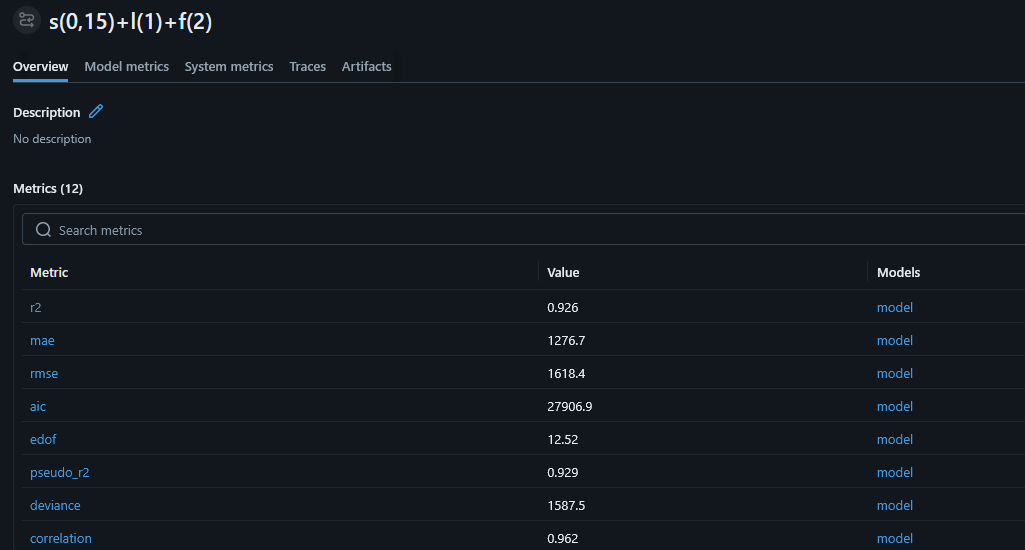
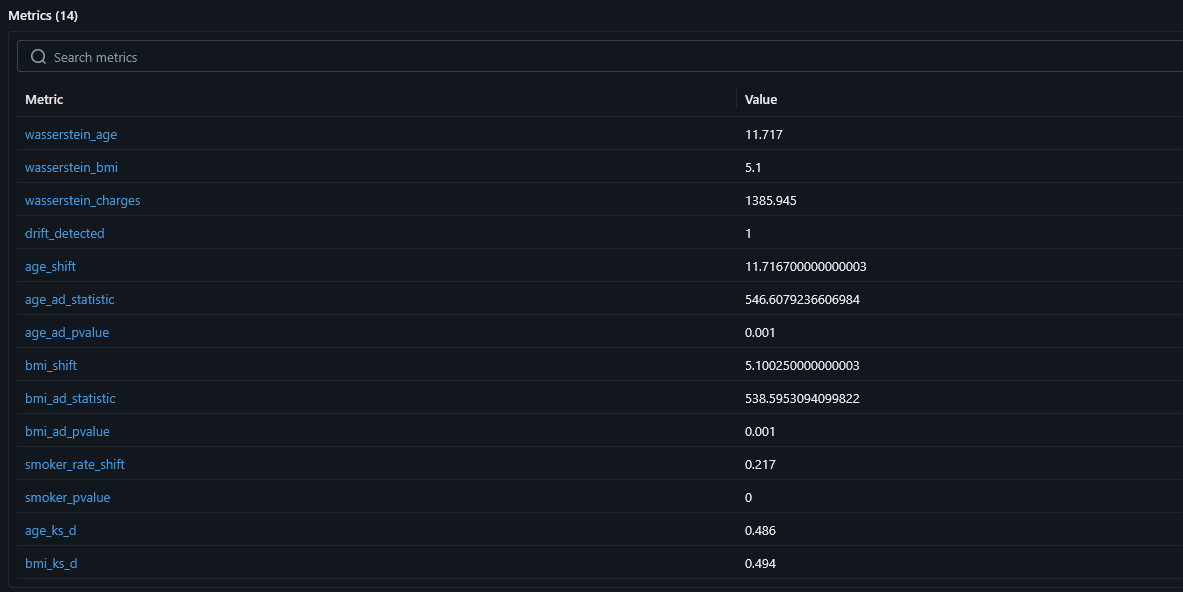
docs: update drift attribution, add AD/Wasserstein comparisons

diff --git a/docs/comparisons/all_scenarios.py b/docs/comparisons/all_scenarios.py
@@ -1,0 +1,77 @@
+import numpy as np
+from scipy.stats import wasserstein_distance
+from scipy.spatial.distance import jensenshannon
+
+def W(pos, p, q):      return wasserstein_distance(pos, pos, p, q)
+def JSD_nats(p, q):    return jensenshannon(np.array(p,float), np.array(q,float), base=np.e)**2
+def JSD_bits(p, q):    return jensenshannon(np.array(p,float), np.array(q,float), base=2)**2
+def PSI(p, q, eps=1e-9):
+    p=np.clip(np.array(p,float),eps,None); q=np.clip(np.array(q,float),eps,None)
+    return np.sum((p-q)*np.log(p/q))
+def close(a, b, tol=5e-3): return abs(a-b) < tol
+
+checks = []
+def verify(label, got, expected):
+    ok = close(got, expected)
+    checks.append(ok)
+    print(f"  [{'PASS' if ok else 'FAIL'}] {label:42s} got={got:.4f}  doc={expected:.4f}")
+
+# ---------- Example 1: continuous (scores 1-5) ----------
+print("Example 1 — continuous (quiz scores 1..5)")
+pos = np.array([1,2,3,4,5], float)
+P = np.array([0.4,0.3,0.2,0.1,0.0]); Q = np.array([0.0,0.1,0.2,0.3,0.4])
+verify("W1 = 2.0 grades",              W(pos,P,Q),            2.0)
+verify("mean P = 2.0",                 np.sum(pos*P),         2.0)
+verify("mean Q = 4.0",                 np.sum(pos*Q),         4.0)
+M = 0.5*(P+Q)
+verify("M is uniform 0.2",             M.mean(),              0.2)
+assert np.allclose(M, 0.2), "M not uniform!"
+kl = lambda a,b: np.sum(a[a>0]*np.log(a[a>0]/b[a>0]))
+verify("KL(P||M) = 0.330",             kl(P,M),               0.330)
+verify("KL(Q||M) = 0.330",             kl(Q,M),               0.330)
+verify("JSD = 0.330 nats",             JSD_nats(P,Q),         0.330)
+verify("JSD = 0.475 bits",             JSD_bits(P,Q),         0.475)
+
+# ---------- Example 1b: latency (spacing 10) + standardization ----------
+print("Example 1b — latency (ms, spacing 10) + standardization")
+ms = np.array([10,20,30,40,50], float)
+verify("W1 = 20 ms",                   W(ms,P,Q),             20.0)
+mean_ref = np.sum(ms*P); sd_ref = np.sqrt(np.sum(ms**2*P)-mean_ref**2)
+verify("mean_ref = 20 ms",             mean_ref,              20.0)
+verify("sd_ref = 10 ms",               sd_ref,                10.0)
+verify("W1 / sd_ref = 2.0 SDs",        W(ms,P,Q)/sd_ref,      2.0)
+verify("W1 / mean_ref = 1.0",          W(ms,P,Q)/mean_ref,    1.0)
+sec = ms/1000.0
+sd_sec = np.sqrt(np.sum(sec**2*P)-(np.sum(sec*P))**2)
+verify("seconds W1 = 0.02 s",          W(sec,P,Q),            0.02)
+verify("seconds W1/sd = 2.0 (invariant)", W(sec,P,Q)/sd_sec,  2.0)
+verify("JSD ms  = 0.330 nats",         JSD_nats(P,Q),         0.330)  # spacing-blind
+
+# ---------- Example 2: binary (churn) ----------
+print("Example 2 — binary (churn)")
+b = np.array([0,1], float)
+Pb = np.array([0.8,0.2]); Qb = np.array([0.5,0.5])
+verify("W1 = 0.3 (= |dp|)",            W(b,Pb,Qb),            0.3)
+verify("|dp| = 0.3",                   abs(0.5-0.2),          0.3)
+Mb = 0.5*(Pb+Qb)
+verify("M = [0.65,0.35] (first)",      Mb[0],                 0.65)
+verify("JSD = 0.051 nats",             JSD_nats(Pb,Qb),       0.051)
+verify("JSD = 0.073 bits",             JSD_bits(Pb,Qb),       0.073)
+verify("PSI = 0.416",                  PSI(Pb,Qb),            0.416)
+
+# ---------- Example 3: ordinal (satisfaction) ----------
+print("Example 3 — ordinal (satisfaction 1..5)")
+o = np.array([1,2,3,4,5], float)
+Po = np.array([0,0,1,0,0.]); Qa = np.array([0,0,0,1,0.]); Qb2 = np.array([0,0,0,0,1.])
+verify("W1(P,Qa) = 1",                 W(o,Po,Qa),            1.0)
+verify("W1(P,Qb) = 2",                 W(o,Po,Qb2),           2.0)
+verify("JSD(P,Qa) = 1 bit",            JSD_bits(Po,Qa),       1.0)
+verify("JSD(P,Qb) = 1 bit",            JSD_bits(Po,Qb2),      1.0)
+verify("JSD(P,Qa) = ln2 nats",         JSD_nats(Po,Qa),       np.log(2))
+verify("PSI(P,Qa) = PSI(P,Qb) (equal)", PSI(Po,Qa)-PSI(Po,Qb2), 0.0)
+assert close(JSD_bits(Po,Qa), JSD_bits(Po,Qb2)), "JSD should be equal"
+assert not close(W(o,Po,Qa), W(o,Po,Qb2)), "Wasserstein should differ"
+print("  [PASS] punchline: JSD equal for A & B, Wasserstein differs (1 vs 2)")
+
+print(f"\n{sum(checks)}/{len(checks)} numeric checks passed; all assertions held."
+      if all(checks) else "SOME CHECKS FAILED")

diff --git a/README.md b/README.md
@@ -11,7 +11,7 @@
 [![CI](https://github.com/fisherynwa/mlops-cycle/actions/workflows/ci.yml/badge.svg)](https://github.com/fisherynwa/mlops-cycle/actions/workflows/ci.yml)
 ![License](https://img.shields.io/badge/license-MIT-green.svg)
 
-An end-to-end MLOps pipeline that predicts insurance charges with a **Generalized Additive Model (GAM)**. This repo showcases the full lifecycle from configurable training (by means of Hydra) to a (live) prediction API, including experiment tracking, a model registry, drift monitoring, and observability dashboards
+An end-to-end MLOps pipeline that predicts insurance charges via a **Generalized Additive Model (GAM)**. This repo showcases the full lifecycle from configurable training (by means of Hydra) to a (live) prediction API, including experiment tracking, a model registry, drift monitoring, and observability dashboards
 
 
 ---
@@ -43,10 +43,13 @@ Each piece is decoupled through the **MLflow model registry**: the trainer *writ
 ## Key design decisions
 
 - **GAM over black-box** -- interpretability. Each prediction decomposes into per-feature contributions (`intercept + splie(age, 15) + linear(bmi) + f(smoker)`).
-- **Model selection by the Akaike information criterion (AIC)** -- the linear-bmi model (`s(0, n_splines=15)+l(1)+f(2)`) beat the spline-bmi variant in the context of the AIC, for equivalent fit. BMI's effect is genuinely near-linear; spending flexibility on it was wasteful.
+- **Model selection by the Akaike information criterion (AIC)** -- the linear-bmi (in-sample) model (`s(0, n_splines=15)+l(1)+f(2)`) beat the spline-bmi variant in the context of the AIC, for equivalent fit. BMI's effect is genuinely near-linear; spending flexibility on it was wasteful.
 - **Champion / challenger registry** — models register as `@challenger`; promotion to `@champion` is an explicit, gated step. Serving always loads the current champion by alias (e..g., `v1`).
-- **Drift attribution** — beyond a yes/no drift verdict by means of the Jensen-Shannon distance, per-feature statistical tests (two-sample Kolmogorov-Smirnov for `age` and `bmi`, a two-proportion Z-test for the binary `smoker`) perform statistical inference.
+- **Drift attribution** -- beyond a yes/no drift verdict, the raw (unstandardized) Wasserstein distance reports the magnitude of shift per numeric feature, while per-feature statistical tests drive the decision: a two-sample Anderson–Darling test for `age` and `bmi` (more sensitive than the KS to differences in the tails; check out the "/docs/ks_vs_ad_power.png" plot), and a two-proportion Z-test for the binary `smoker`. The ECDF (empirical cumulative density function)  (with its KS gap) is logged for each numeric feature as a visual diagnostic alongside their (hypothesis) tests.
 
+
+![age ECDF](docs/ecdf_age.png)
+![bmi ECDF](docs/ecdf_bmi.png)
 ---
 
 ## Project structure
